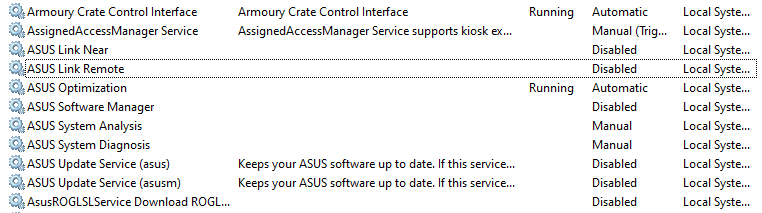
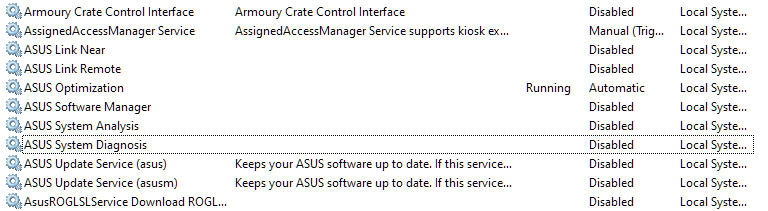
update README and clean up build script

diff --git a/README.md b/README.md
@@ -8,19 +8,13 @@ Your warranty is now void. Proceed at your own risk.
 
 ## Help Wanted
 
-Asus wrote the `atkwmiacpi64.sys` with a very old version of Windows Driver Kit. If you are into reverse engineering and have knowledge of inner working of the ACPI programming, please help rewrite their driver to be more modern. Any decompiler/dissassembler (retdec and IDA Pro) should give you a good start.
+After some reverse engineering, it looks like `atkwmiacpi64.sys` hooks itself into the WMI as the provider (and talks to `ACPI\PNP0C14\ATK`). However, even if ATKAMIACPIIO the driver is running, without Asus Optimization running, WMI has no events populated.
 
-Reference design:
-
-Linux: [https://github.com/torvalds/linux/blob/master/drivers/platform/x86/asus-wmi.c](https://github.com/torvalds/linux/blob/master/drivers/platform/x86/asus-wmi.c)
-
-macOS: [https://github.com/hieplpvip/AsusSMC](https://github.com/hieplpvip/AsusSMC)
-
-It seems like both "Armoury Crate Control Interface" and "Asus Optimization" talk to "Microsoft Windows Management Interface for ACPI" with device path `ACPI\PNP0C14\ATK`.
+Not sure why this is the case, but I will investigate into this further and aim to remove Asus Optimization as part of the requirement.
 
 ## Requirements
 
-ROGManager requires "Armoury Crate Control Interface" and "Asus Optimization" to be running as a Service, since "Asus Optimization" loads the `atkwmiacpi64.sys` driver and interpret ACPI events as key presses, and exposes a `\\.\ATKACPI` device to be used. "Asus Optimization" also notifies other processes via Messages (which ROGManager will receive). You do not need any other softwares from Asus running to use ROGManager; you can safely uninstall them from your system. However, some softwares are installed as Windows driver, and you should disable them in Services:
+ROGManager requires "Asus Optimization" to be running as a Service, since "Asus Optimization" loads the `atkwmiacpi64.sys` driver and interpret ACPI events as key presses, and exposes a `\\.\ATKACPI` device to be used. You do not need any other softwares from Asus running to use ROGManager; you can safely uninstall them from your system. However, some softwares are installed as Windows driver, and you should disable them in Services:
 
 ![Running Services](images/services.png)
 
@@ -85,7 +79,3 @@ The key combo has a time delay. If you press the combo X times, it will apply th
 ## Developing
 
 Use `.\run.ps1` as it does not compile using CGo.
-
-## CGo Optimizations
-
-The usual default message loop includes calls to win32 API functions, which incurs a decent amount of runtime overhead coming from Go. As an alternative to this, you may compile ROGManager using an optional C implementation of the main message loop, by passing the `use_cgo` build tag.
